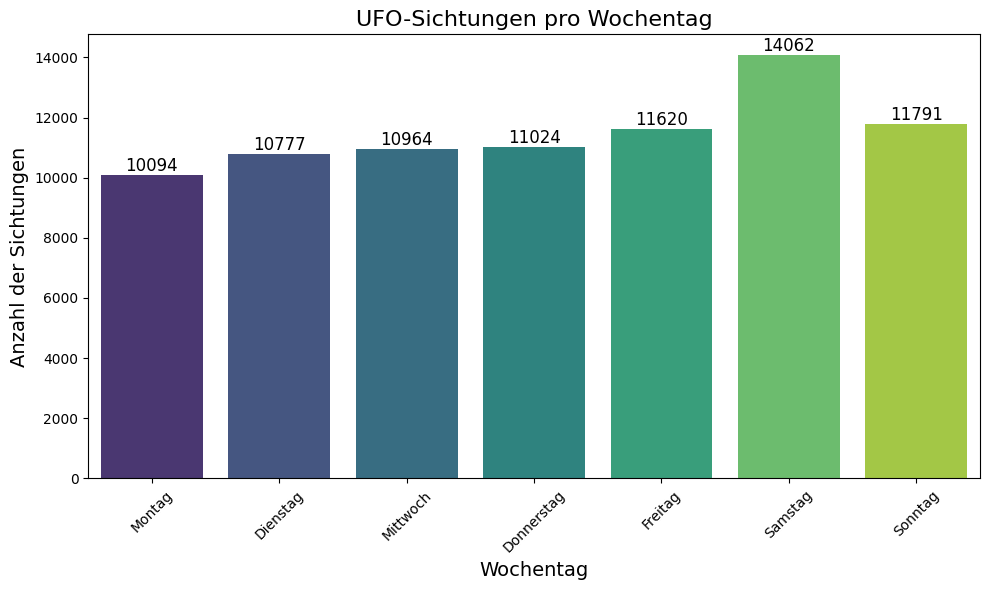
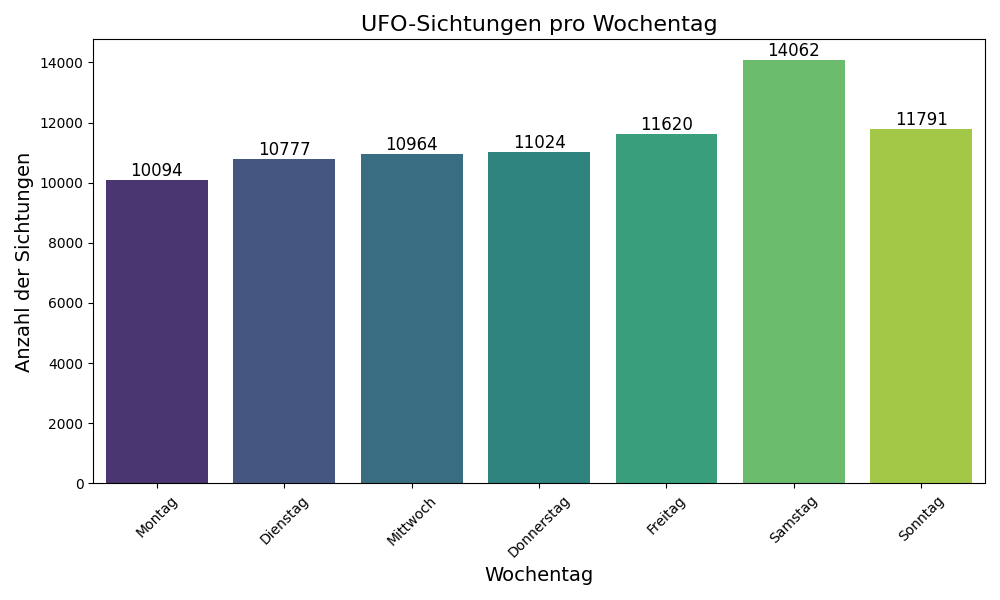
Speicherort Grafiken angepasst, Kleinkram verbessert

diff --git a/Laura/analyse_zeiträume.py b/Laura/analyse_zeiträume.py
@@ -10,16 +10,23 @@ import seaborn as sns #heatmap
 import holidays #für feiertagsanalyse
 
 
-path_to_scripts_folder = os.path.abspath(os.path.dirname(__file__))
+"""path_to_scripts_folder = os.path.abspath(os.path.dirname(__file__))
 path_to_main_folder = os.path.join(path_to_scripts_folder, "..")
 
+sys.path.append(path_to_main_folder)"""
+
+###path = (r"C:\Users\Admin\Documents\Projekt_Ufo\Projekt_UFO\data\data_clean\ufo_sightings_scrubbed_clean.csv")
+###ufo_sightings_df = pd.read_csv(path)###
+
+
+path_to_scripts_folder = os.path.abspath(os.path.dirname(__file__))
+path_to_main_folder = os.path.join(path_to_scripts_folder, "..")
 sys.path.append(path_to_main_folder)
 
 from functions import laura_functions
 
-path = (r"C:\Users\Admin\Documents\Projekt_Ufo\Projekt_UFO\data\data_clean\ufo_sightings_scrubbed_clean.csv")
-ufo_sightings_df = pd.read_csv(path)
-
+### Ordner für alle Grafiken
+grafiken_ordner = os.path.join(os.path.dirname(__file__), 'grafiken')
 
 ################################################################################################################
 
@@ -46,12 +53,13 @@ years_df = ufo_sightings_df["years"]
 sightings_per_year = ufo_sightings_df.groupby("years").size()
 
 # Grafik alle Jahre
-"""sightings_per_year.plot(kind='line', figsize=(12, 6), marker='o', color='green', linestyle='-')
+sightings_per_year.plot(kind='line', figsize=(12, 6), marker='o', color='green', linestyle='-')
 plt.title('UFO-Sichtungen über die Jahre')
 plt.xlabel('Jahr')
 plt.ylabel('Anzahl der Sichtungen')
 plt.grid(True)  # Gitternetzlinien hinzufügen
-plt.show()"""
+#plt.show()
+plt.savefig(os.path.join(grafiken_ordner, "jahre"))
 
 # --------------------------
 
@@ -62,7 +70,7 @@ close_up_df = ufo_sightings_df[ufo_sightings_df["years"] >= 1990]
 sightings_close_up = close_up_df.groupby("years").size()
 
 # Grafik Close Up
-"""
+
 plt.figure(figsize=(14, 6)) 
 plt.plot(sightings_close_up.index, sightings_close_up.values, marker='o', color='green', linestyle='-', label='Sichtungen pro Jahr')
 plt.xticks(sightings_close_up.index, rotation=90) 
@@ -72,7 +80,8 @@ plt.ylabel('Anzahl der Sichtungen', fontsize=14)
 plt.grid(True, linestyle='--', alpha=0.7)
 plt.legend()
 plt.tight_layout()
-plt.show()"""
+#plt.show()
+plt.savefig(os.path.join(grafiken_ordner, "jahre_close_up"))
 
 ################################################################################################################
 
@@ -88,13 +97,14 @@ sightings_per_month =  ufo_sightings_df.groupby("months").size()
 # Grafik 
 sightings_per_month.index = sightings_per_month.index.map(lambda x: calendar.month_abbr[x]) # Monatsnummern in Monatsnamen umwandeln
 
-"""plt.figure(figsize=(10, 6))
+plt.figure(figsize=(10, 6))
 sns.barplot(x=sightings_per_month.index, y=sightings_per_month.values, palette="viridis")
 plt.title('UFO-Sichtungen pro Monat')
 plt.xlabel('Monat')
 plt.ylabel('Anzahl der Sichtungen')
 plt.xticks(rotation=45)
-plt.show()"""
+#plt.show()
+plt.savefig(os.path.join(grafiken_ordner, "monate"))
 
 ################################################################################################################
 
@@ -119,7 +129,7 @@ seasons_df = ufo_sightings_df["season"]
 sightings_per_season = ufo_sightings_df.groupby("season").size().reset_index(name="sightings")
 
 # Grafik Jahreszeit
-"""plt.figure(figsize=(10, 6))  # Größe des Diagramms anpassen
+plt.figure(figsize=(10, 6))  # Größe des Diagramms anpassen
 sns.barplot(x='season', y='sightings', data=sightings_per_season, palette="viridis")
 
 plt.title('UFO-Sichtungen pro Saison', fontsize=16)
@@ -131,8 +141,8 @@ for i, value in enumerate(sightings_per_season['sightings']):
     plt.text(i, value + 0.1, str(value), ha='center', va='bottom', fontsize=12)
 
 plt.tight_layout()
-plt.show()
-"""
+#plt.show()
+plt.savefig(os.path.join(grafiken_ordner, "jahreszeiten"))
 
 ################################################################################################################
 
@@ -150,14 +160,14 @@ most_sightings_count = sightings_per_day.max()
 
 # Grafik Tage
 
-"""plt.figure(figsize=(10, 6))
+plt.figure(figsize=(10, 6))
 sns.barplot(x=sightings_per_day.index, y=sightings_per_day.values, palette="viridis")
 plt.title('UFO-Sichtungen pro Tag des Monats', fontsize=16)
 plt.xlabel('Tag des Monats', fontsize=14)
 plt.ylabel('Anzahl der Sichtungen', fontsize=14)
 plt.tight_layout()
-plt.show()
-"""
+#plt.show()
+plt.savefig(os.path.join(grafiken_ordner, "tage_datum"))
 
 ################################################################################################################
 
@@ -179,7 +189,7 @@ sightings_per_weekday = sightings_per_weekday.reindex(weekday_names)
 
 # Grafik Wochentag
 
-"""plt.figure(figsize=(10, 6))
+plt.figure(figsize=(10, 6))
 sns.barplot(x=sightings_per_weekday.index, y=sightings_per_weekday.values, palette="viridis")
 
 plt.title('UFO-Sichtungen pro Wochentag', fontsize=16)
@@ -192,7 +202,8 @@ for i, value in enumerate(sightings_per_weekday.values):
 
 plt.xticks(rotation=45)
 plt.tight_layout()
-plt.show()"""
+#plt.show()
+plt.savefig(os.path.join(grafiken_ordner, "tage_wochentag"))
 
 ################################################################################################################
 
@@ -215,6 +226,8 @@ labels = ["Vormittag", "Mittag", "Nachmittag", "Nacht"]
 # neue Spalte ins df
 ufo_sightings_df["zeitkategorie"] = np.select(conditions, labels, default="Unbekannt")
 
+'''kategorisierte_zeit.head() wäre dann mit implementierter def'''
+
 # --------------------------
 
 # nach Stunde und Wochentag filtern
@@ -235,13 +248,14 @@ weekday_names = ["Monday", "Tuesday", "Wednesday", "Thursday", "Friday", "Saturd
 heatmap_data = heatmap_data[weekday_names]"""
 
 # Grafik Tageszeiten
-"""plt.figure(figsize=(12, 8))
+plt.figure(figsize=(12, 8))
 sns.heatmap(heatmap_data, cmap="YlOrRd", annot=True, fmt="d", linewidths=0.5)
 plt.title("UFO-Sichtungen nach Stunde und Wochentag", fontsize=16)
 plt.xlabel("Wochentag", fontsize=14)
 plt.ylabel("Stunde des Tages", fontsize=14)
 plt.tight_layout()
-plt.show()"""
+#plt.show()
+plt.savefig(os.path.join(grafiken_ordner, "tageszeit"))
 
 ################################################################################################################
 
@@ -253,9 +267,10 @@ ufo_sightings_df["datetime"] = ufo_sightings_df["datetime"].dt.date
 
 # value_counts ziehen
 date_counts = ufo_sightings_df["datetime"].value_counts()
+top10_date_counts = date_counts.head(10)
 
 # Grafik Tag.Monat
-"""plt.figure(figsize=(10, 6))
+plt.figure(figsize=(10, 6))
 sns.barplot(x=top10_date_counts.index, y=top10_date_counts.values, palette="viridis")
 plt.title('Top 10 Datumsangaben mit den meisten UFO-Sichtungen', fontsize=16)
 plt.xlabel('Datum', fontsize=14)
@@ -267,8 +282,8 @@ for i, value in enumerate(top10_date_counts.values):
 
 plt.xticks(rotation=45)
 plt.tight_layout()
-plt.show()
-"""
+#plt.show()
+plt.savefig(os.path.join(grafiken_ordner, "tag_monat"))
 
 ################################################################################################################
 
@@ -284,7 +299,7 @@ sightings_per_year_country = ufo_sightings_df.groupby(["years", "country"]).size
 # Grafik Jahr und Land
 
 # Länder zur Leserlichkeit umbenannt
-"""sightings_per_year_country = sightings_per_year_country.rename(columns={
+sightings_per_year_country = sightings_per_year_country.rename(columns={
     "au": "Australien",
     "ca": "Canada",
     "gb": "Großbrittanien",
@@ -300,7 +315,8 @@ plt.ylabel('Anzahl der Meldungen', fontsize=14)
 plt.grid(True, linestyle='--', alpha=0.7)
 plt.legend(title='Land')
 plt.tight_layout()
-plt.show()"""
+#plt.show()
+plt.savefig(os.path.join(grafiken_ordner, "jahre_land"))
 
 # --------------------------
 
@@ -315,7 +331,7 @@ sightings_close_up_country = close_up_df.groupby(["years", "country"]).size().un
 # Grafik Close Up
 
 # Länder zur Leserlichkeit umbenannt
-"""sightings_close_up_country = sightings_close_up_country.rename(columns={
+sightings_close_up_country = sightings_close_up_country.rename(columns={
     "au": "Australien",
     "ca": "Canada",
     "gb": "Großbrittanien",
@@ -331,8 +347,9 @@ plt.ylabel('Anzahl der Meldungen', fontsize=14)
 plt.grid(True, linestyle='--', alpha=0.7)
 plt.legend(title='Land')
 plt.tight_layout()
-plt.show()
-"""
+#plt.show()
+plt.savefig(os.path.join(grafiken_ordner, "jahre_land_close_up"))
+
 
 ################################################################################################################
 
@@ -370,7 +387,7 @@ holiday_counts = holiday_sightings["holiday_name"].value_counts()
 
 # Grafik Feiertage
 
-"""plt.figure(figsize=(10, 6))
+plt.figure(figsize=(10, 6))
 sns.barplot(x=holiday_counts.index, y=holiday_counts.values, palette="viridis")
 
 plt.title("UFO-Sichtungen an US-Feiertagen", fontsize=16)
@@ -379,7 +396,8 @@ plt.ylabel("Anzahl der Sichtungen", fontsize=12)
 plt.xticks(rotation=45, ha="right")  # Feiertagsnamen drehen, um Lesbarkeit zu verbessern
 
 plt.tight_layout()
-plt.show()"""
+#plt.show()
+plt.savefig(os.path.join(grafiken_ordner, "holidays"))
 
 ################################################################################################################
 
@@ -421,7 +439,7 @@ sightings_per_date["sort_key"] = pd.to_datetime(sightings_per_date["date_str"], 
 sightings_per_date = sightings_per_date.sort_values("sort_key")
 
 # Plot
-"""plt.figure(figsize=(12, 6))
+plt.figure(figsize=(12, 6))
 sns.lineplot(x="date_str", y="count", data=sightings_per_date, marker="o", color="green")
 plt.title("UFO-Sichtungen im Perseiden-Zeitraum (17.07. – 24.08.)")
 plt.xlabel("Datum")
@@ -429,4 +447,5 @@ plt.ylabel("Anzahl der Sichtungen")
 plt.xticks(rotation=45)
 plt.grid(True)
 plt.tight_layout()
-plt.show()"""
+#plt.show()
+plt.savefig(os.path.join(grafiken_ordner, "perseiden"))

diff --git a/functions/laura_functions.py b/functions/laura_functions.py
@@ -1,4 +1,5 @@
 import pandas as pd
+import numpy as np
 
 
 # Zeile datetime in Datetime-Format umwandeln
@@ -18,3 +19,26 @@ def get_season(month):
         return "sommer"
     else:
         return "autumn"
+    
+
+# Tageszeit filtern  
+def kategorisiere_tageszeit(df, datetime_column):
+   
+    # zieht die Stunden
+    hour = df[datetime_column].dt.hour
+
+    # Bedingungen für die Tageszeit-Kategorisierung
+    conditions = [
+        (hour >= 6) & (hour < 12),   # Vormittag (Tag)
+        (hour >= 12) & (hour < 14),  # Mittag
+        (hour >= 14) & (hour < 18),  # Nachmittag (Tag)
+        (hour >= 18) | (hour < 6)    # Nacht
+    ]
+
+    # Labels für die Kategorien
+    labels = ["Vormittag", "Mittag", "Nachmittag", "Nacht"]
+
+    # Fügt Spalte 'zeitkategorie' zum DataFrame hinzu
+    df["zeitkategorie"] = np.select(conditions, labels, default="Unbekannt")
+
+    return df

diff --git a/Laura/png_zieher.py b/Laura/png_zieher.py
@@ -43,5 +43,5 @@ for i in range(anzahl_bilder, zeilen * spalten):
 
 # Layout anpassen und Grafik anzeigen
 plt.tight_layout()
-plt.show()
-plt.savefig(grafiken_ordner, dpi=300)
+#plt.show()
+plt.savefig(os.path.join(grafiken_ordner, "zusammenfassung"))
